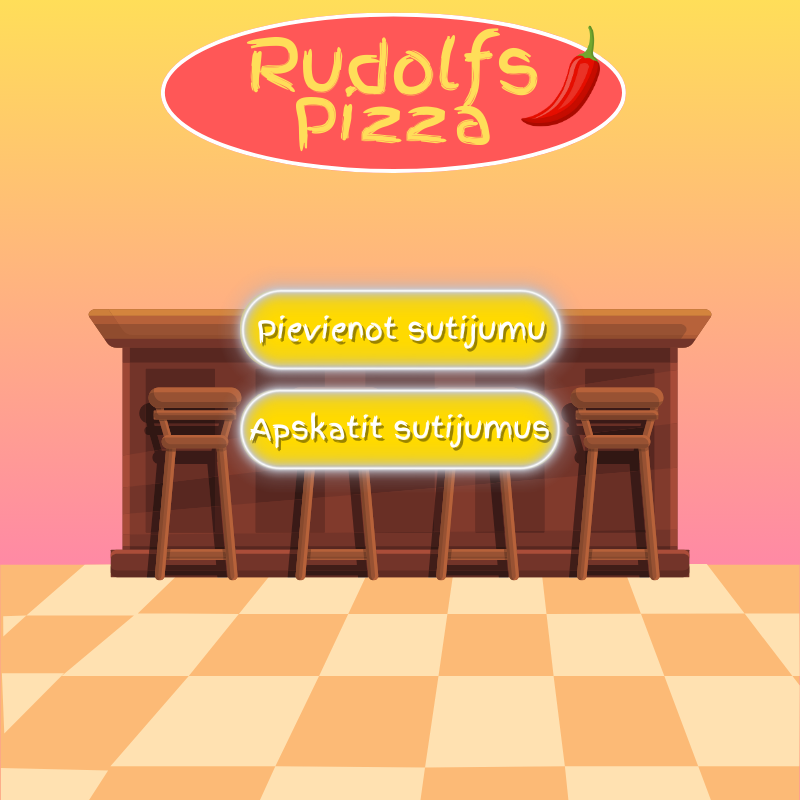
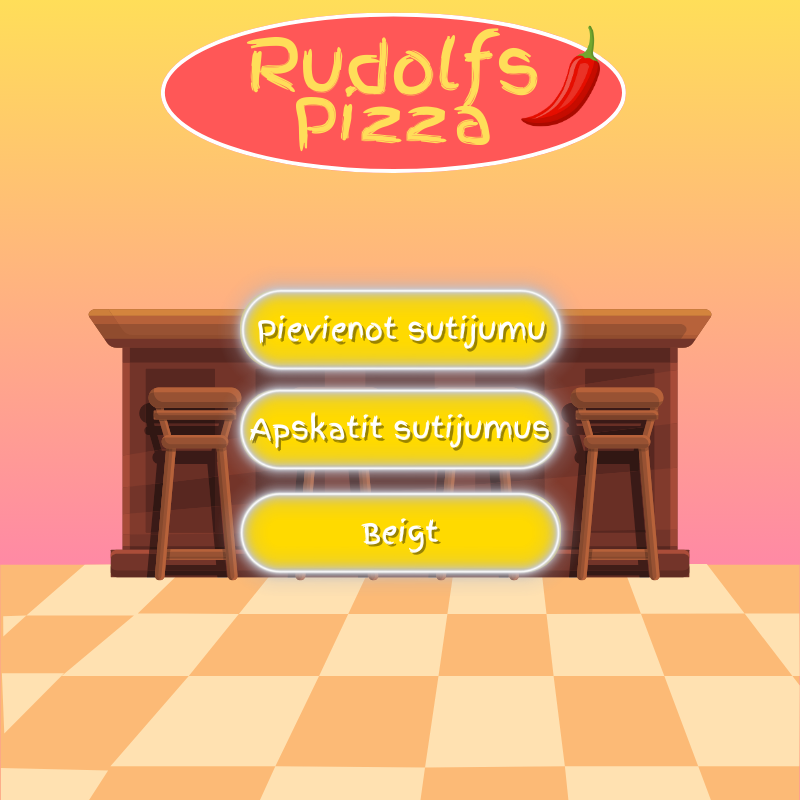
Pieliku Quit pogu

Changed region(s): [[0.2812, 0.5938, 0.7188, 0.75]]

diff --git a/src/lvt/Apskatit.java b/src/lvt/Apskatit.java
@@ -35,7 +35,6 @@ public class Apskatit extends JFrame {
     private JList<String> list; 
    
     private static final String FAILS = "pagaidu_pasutijuma_dati.txt";
-    private static final String CENAS_FAILS = "cenas.txt";
     private JScrollPane scrollPane;
 
     public static void main(String[] args) {
@@ -114,6 +113,21 @@ public class Apskatit extends JFrame {
             }
         });
         contentPane.add(izdzest);
+        
+        JButton atpakal = new JButton("");
+        atpakal.addActionListener(new ActionListener() {
+            @Override
+            public void actionPerformed(ActionEvent e) {
+            	Main2 sf = new Main2(); 
+    			sf.setVisible(true);
+    			dispose();
+            }
+        });
+        atpakal.setContentAreaFilled(false); 
+        atpakal.setBorderPainted(false);
+        atpakal.setBorder(new LineBorder(new Color(255, 255, 255, 100), 2));
+        atpakal.setBounds(430, 648, 335, 70);
+        contentPane.add(atpakal);
     
     }
 

diff --git a/src/lvt/Main2.java b/src/lvt/Main2.java
@@ -96,6 +96,23 @@ public class Main2 extends JFrame {
 		lblNewLabel.setIcon(new ImageIcon(bilde));
 		lblNewLabel.setBounds(0, 0, 784, 761);
 		contentPane.add(lblNewLabel);
-	}
+		
+		JButton beigt = new JButton("");
+		beigt.addActionListener(new ActionListener(){
+	    	
 
+			@Override
+			public void actionPerformed(ActionEvent e) {
+				dispose();
+			} 
+	    });
+		beigt.setOpaque(false);
+		beigt.setForeground(Color.WHITE);
+		beigt.setFont(new Font("Dialog", Font.PLAIN, 22));
+		beigt.setContentAreaFilled(false);
+		beigt.setBorderPainted(false);
+		beigt.setBorder(new LineBorder(new Color(255, 255, 255, 100), 2));
+		beigt.setBounds(241, 474, 321, 77);
+		contentPane.add(beigt);
+	}
 }

diff --git a/src/lvt/Main8.java b/src/lvt/Main8.java
@@ -66,7 +66,7 @@ btnNewButton.addActionListener(new ActionListener(){
 
 			@Override
 			public void actionPerformed(ActionEvent e) {
-				Main1 sf = new Main1(); 
+				Main2 sf = new Main2(); 
 				sf.setVisible(true);
 				dispose();
 			} 
